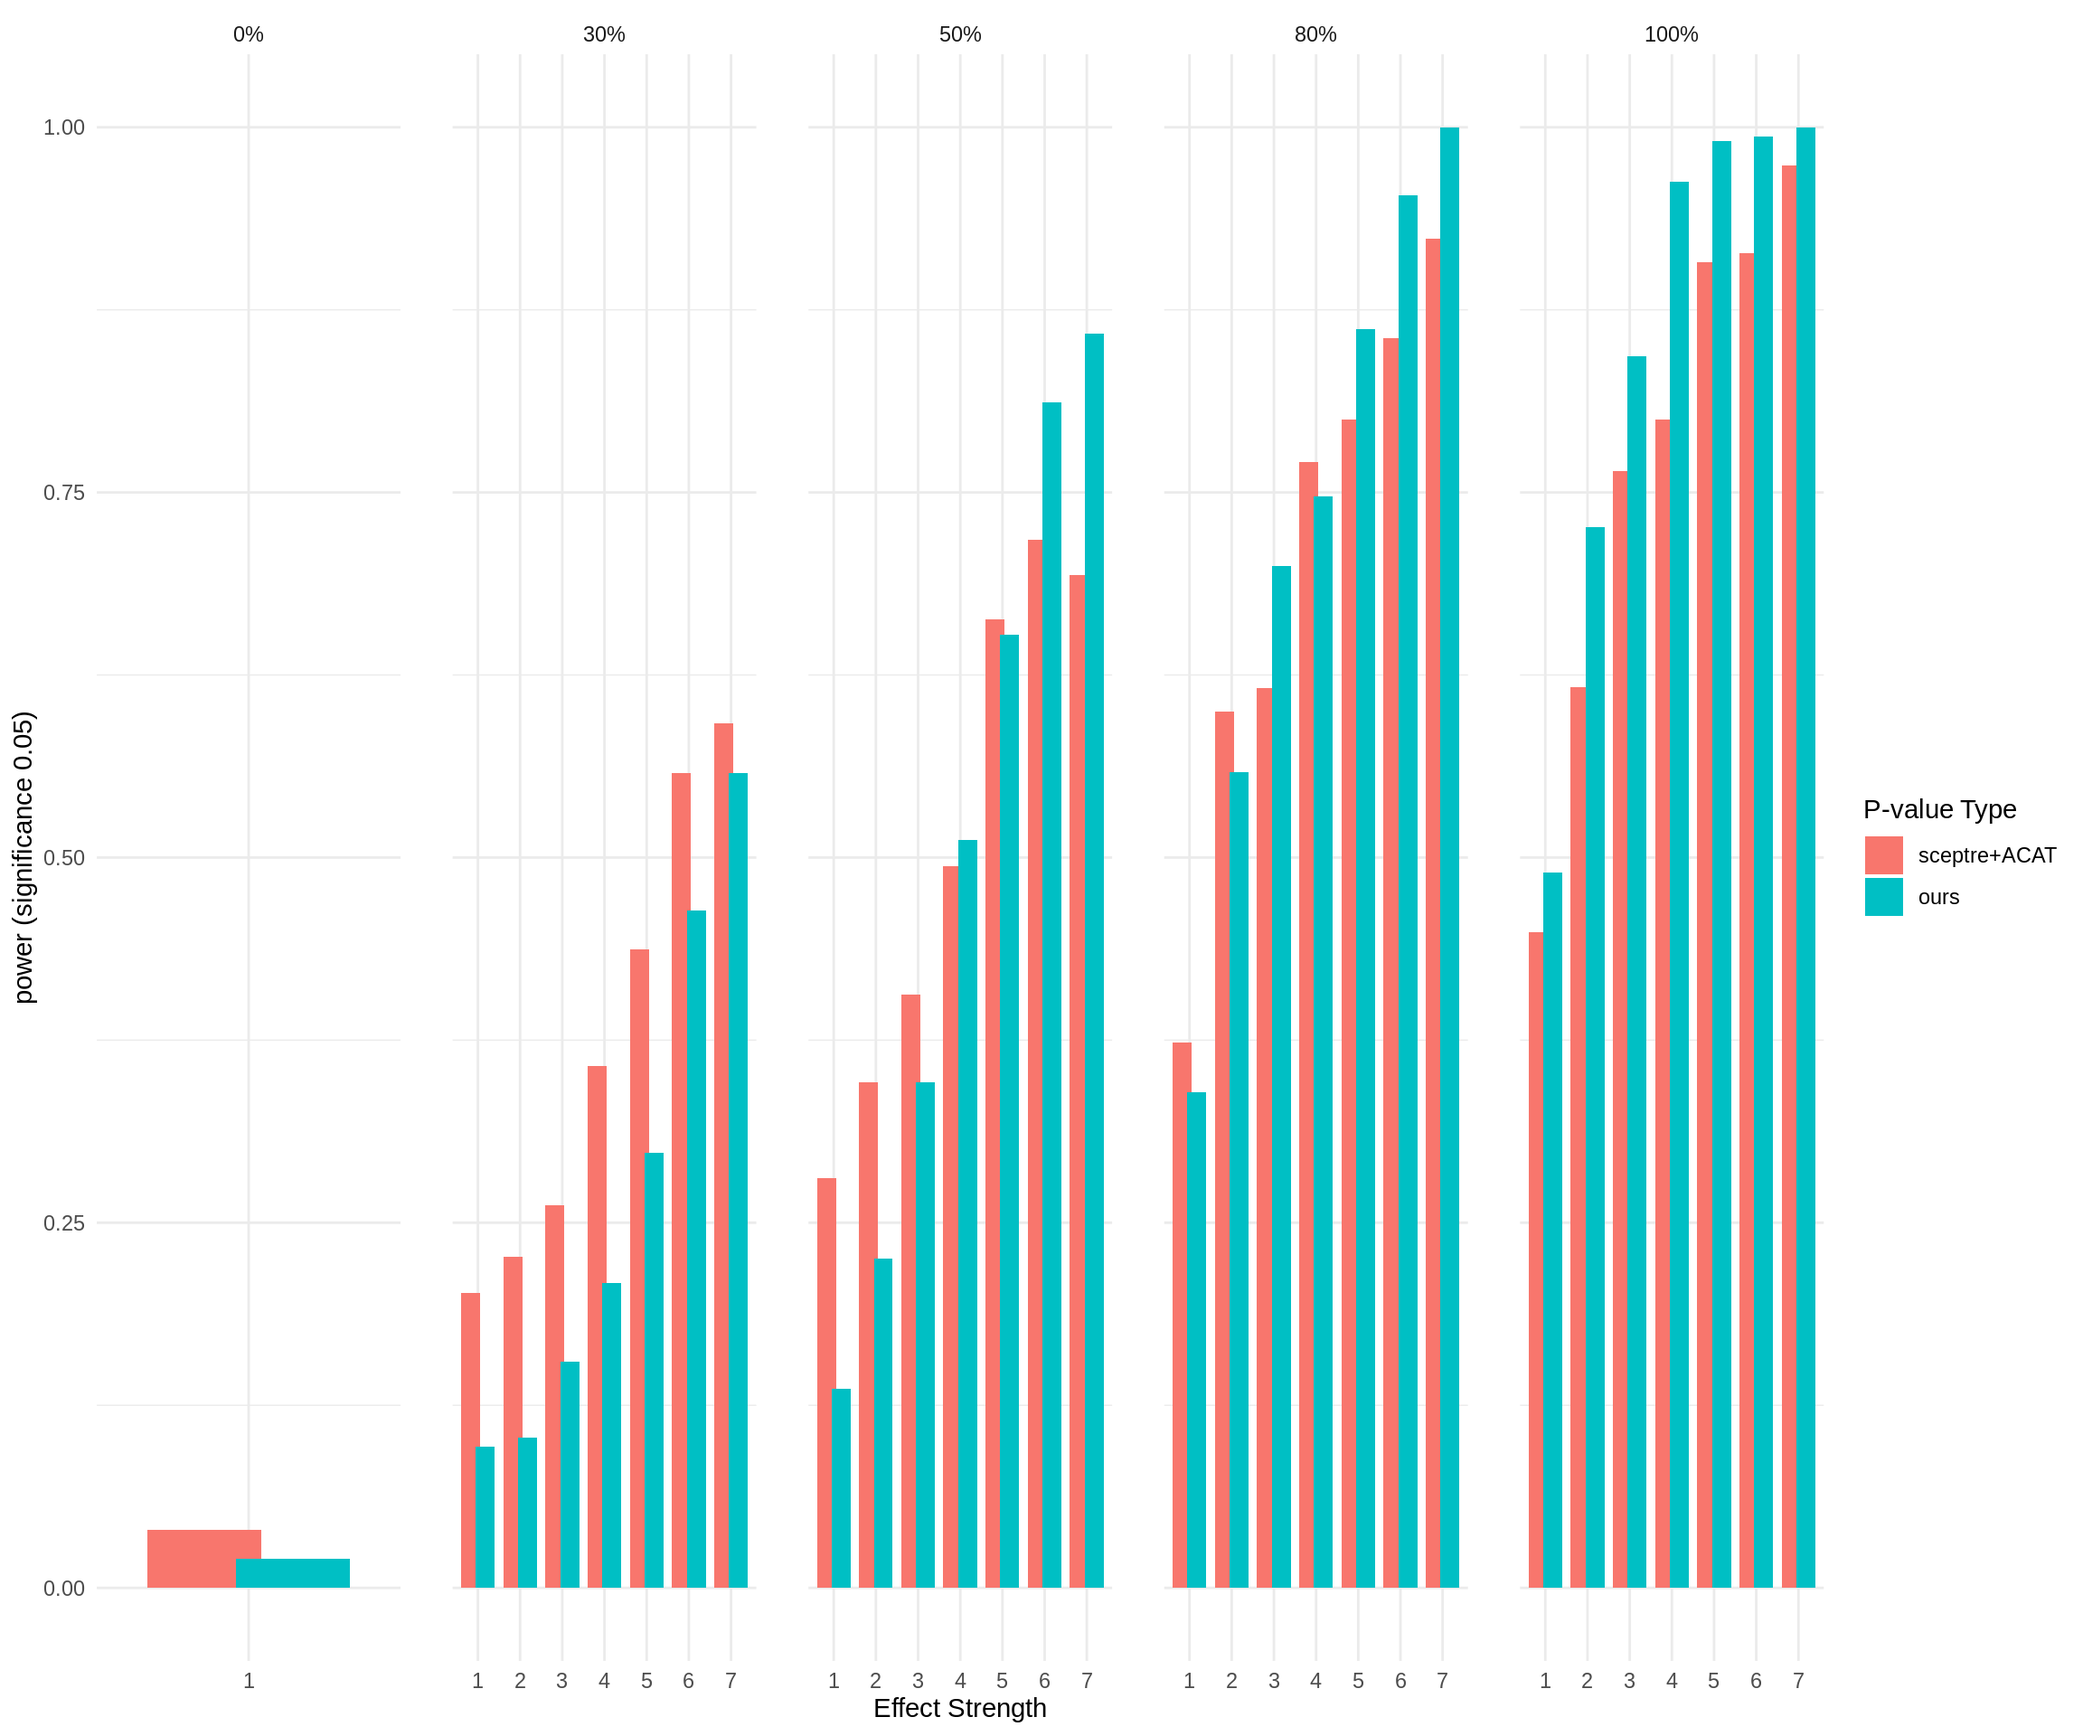
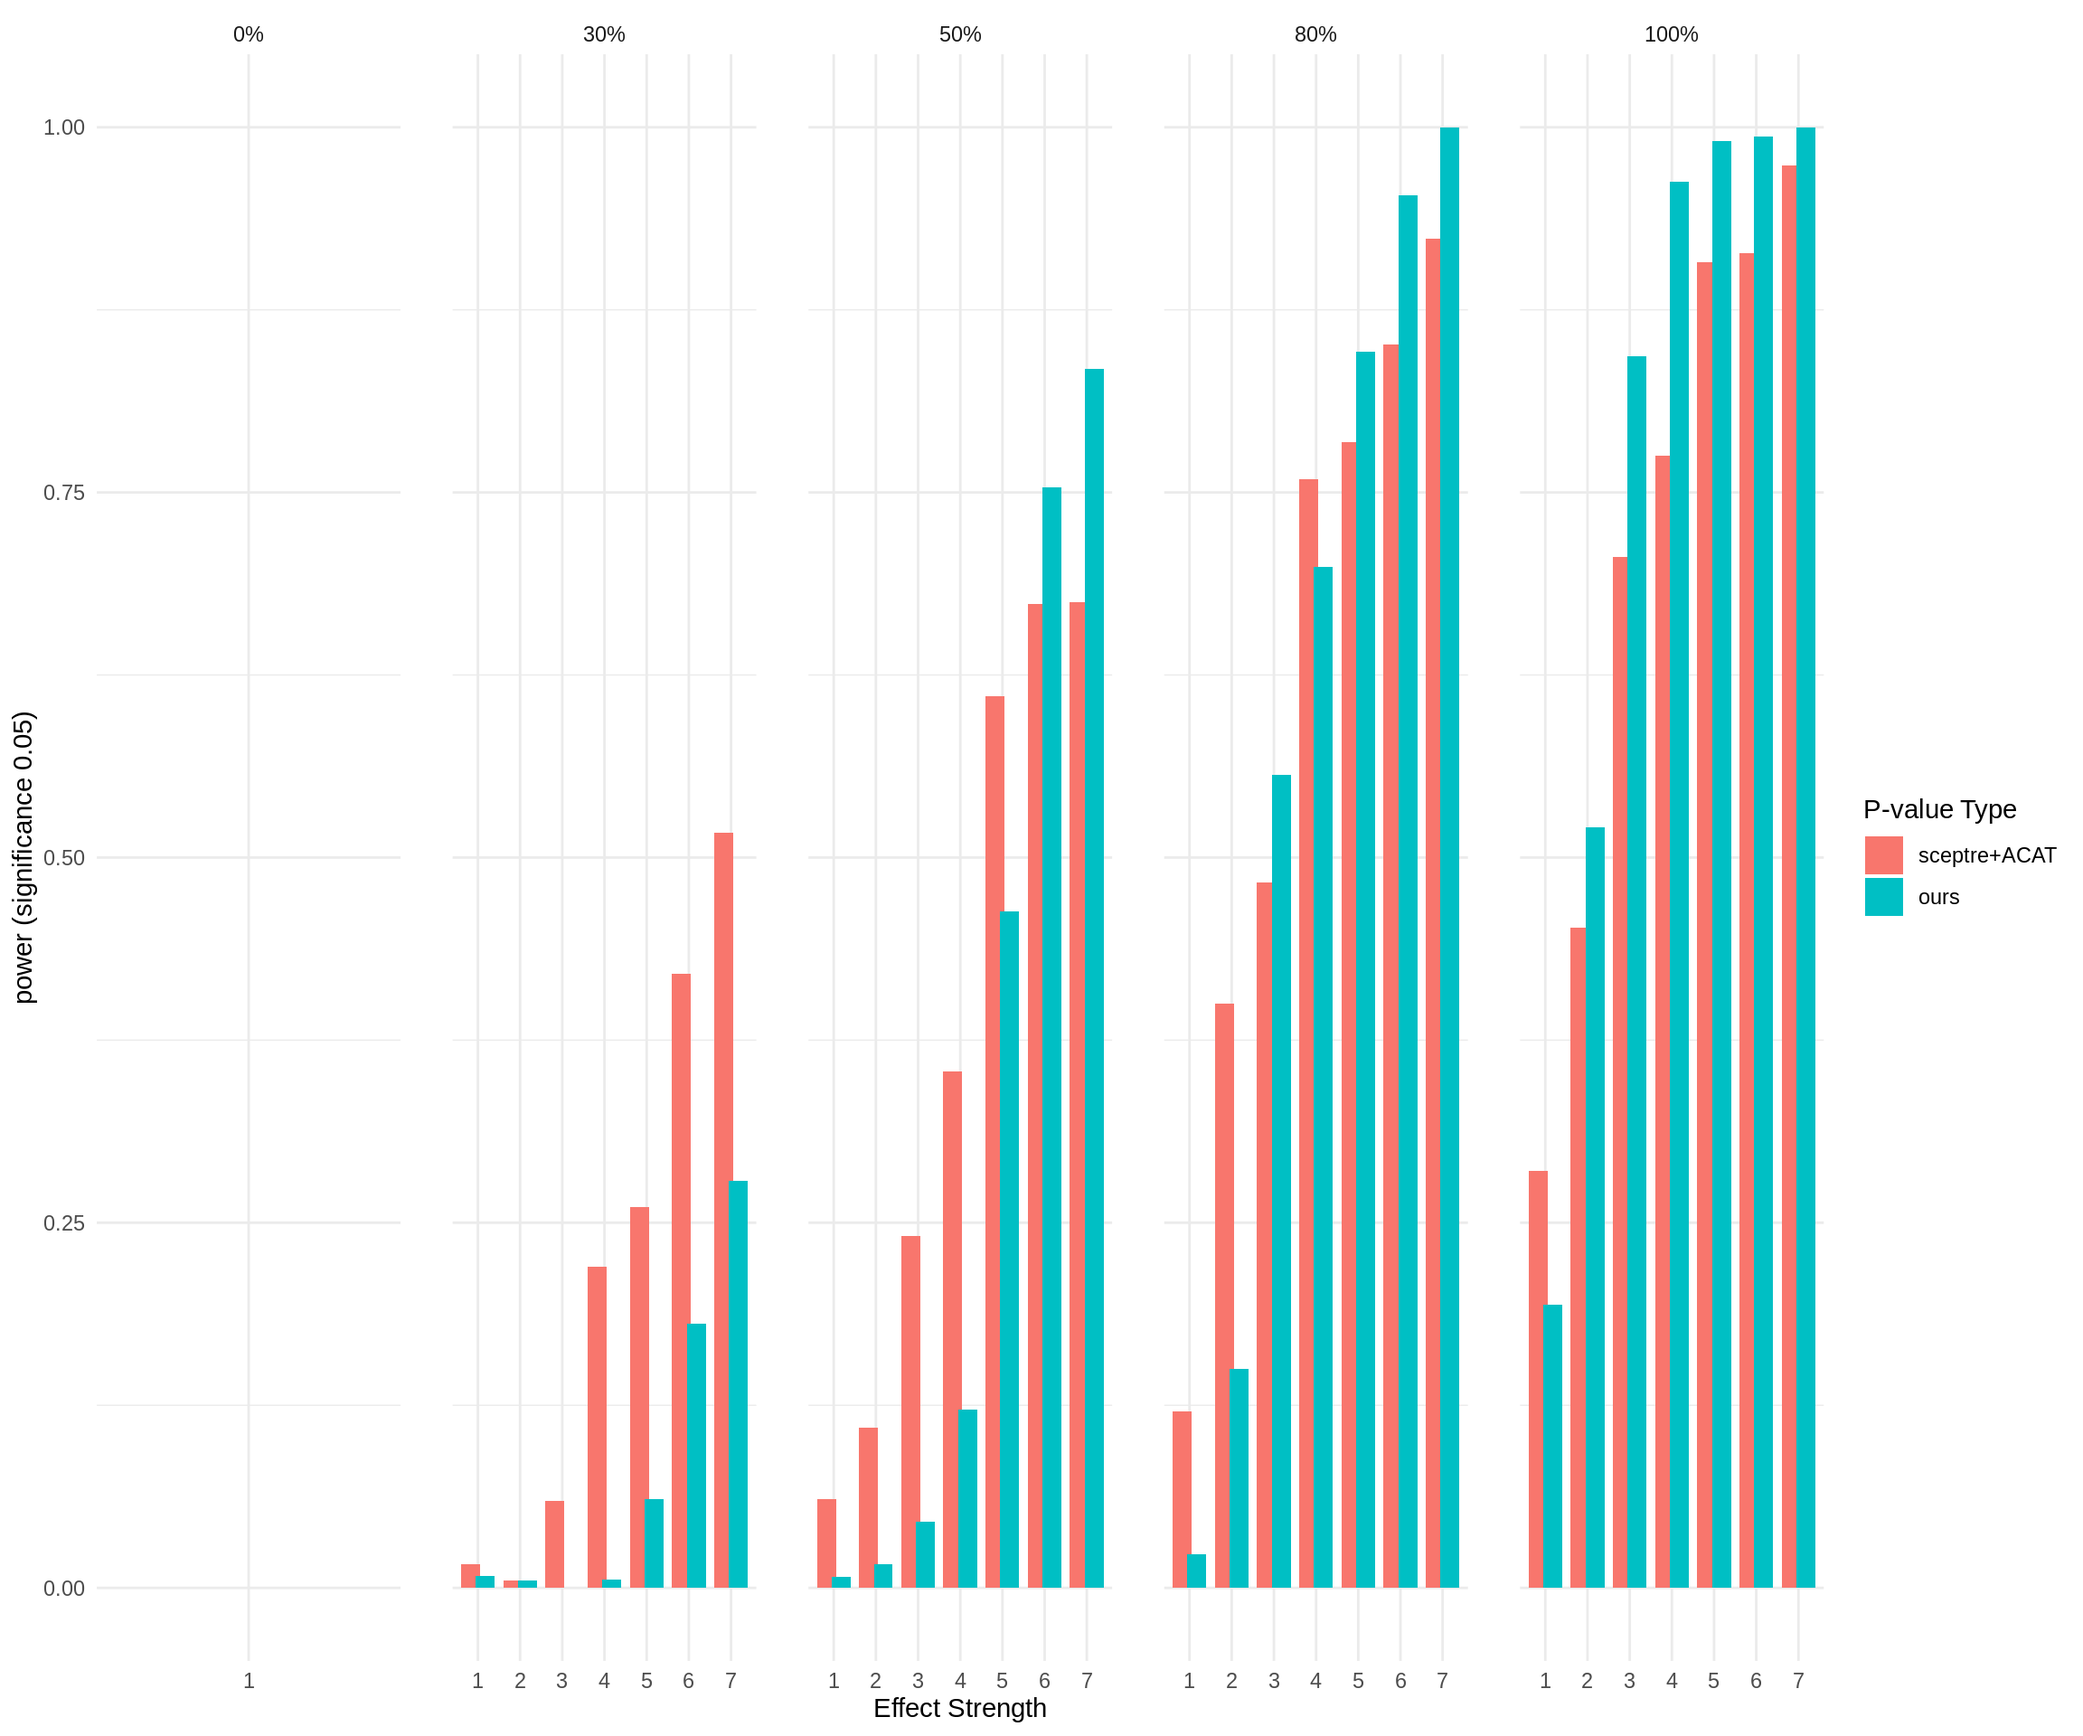
Build site.

diff --git a/docs/research_log_June.html b/docs/research_log_June.html
@@ -796,16 +796,16 @@ output/simulation/our_acat_comparison_p2
 <div class="panel panel-default">
 <div class="panel-heading">
 <p class="panel-title">
-<a data-toggle="collapse" data-parent="#workflowr-checks" href="#strongRepositoryversionstrongahrefhttpsgithubcomjliucxsceptretreeb45d0efcc94fd12eeebf4655437573519ec59163targetblankb45d0efa"> <span class="glyphicon glyphicon-ok text-success" aria-hidden="true"></span> <strong>Repository version:</strong> <a href="https://github.com/jliucx/sceptre/tree/b45d0efcc94fd12eeebf4655437573519ec59163" target="_blank">b45d0ef</a> </a>
+<a data-toggle="collapse" data-parent="#workflowr-checks" href="#strongRepositoryversionstrongahrefhttpsgithubcomjliucxsceptretree4601b1859619a1e05c79c94792bd70691b84657etargetblank4601b18a"> <span class="glyphicon glyphicon-ok text-success" aria-hidden="true"></span> <strong>Repository version:</strong> <a href="https://github.com/jliucx/sceptre/tree/4601b1859619a1e05c79c94792bd70691b84657e" target="_blank">4601b18</a> </a>
 </p>
 </div>
[2 lines of base64/hex data omitted]
 <div class="panel-body">
 <p>
 Great! You are using Git for version control. Tracking code development and connecting the code version to the results is critical for reproducibility.
 </p>
 <p>
-The results in this page were generated with repository version <a href="https://github.com/jliucx/sceptre/tree/b45d0efcc94fd12eeebf4655437573519ec59163" target="_blank">b45d0ef</a>. See the <em>Past versions</em> tab to see a history of the changes made to the R Markdown and HTML files.
+The results in this page were generated with repository version <a href="https://github.com/jliucx/sceptre/tree/4601b1859619a1e05c79c94792bd70691b84657e" target="_blank">4601b18</a>. See the <em>Past versions</em> tab to see a history of the changes made to the R Markdown and HTML files.
 </p>
 <p>
 Note that you need to be careful to ensure that all relevant files for the analysis have been committed to Git prior to generating the results (you can use <code>wflow_publish</code> or <code>wflow_git_commit</code>). workflowr only checks the R Markdown file, but you know if there are other scripts or data files that it depends on. Below is the status of the Git repository when the results were generated:
@@ -913,6 +913,40 @@ Message
 </tr>
 </thead>
 <tbody>
+<tr>
+<td>
+Rmd
+</td>
+<td>
+<a href="https://github.com/jliucx/sceptre/blob/4601b1859619a1e05c79c94792bd70691b84657e/analysis/research_log_June.Rmd" target="_blank">4601b18</a>
+</td>
+<td>
+jliucx
+</td>
+<td>
+2025-06-25
+</td>
+<td>
+add BH
+</td>
+</tr>
+<tr>
+<td>
+html
+</td>
+<td>
+<a href="https://rawcdn.githack.com/jliucx/sceptre/6a47d63a16438503f8f0402e8b438261b3ada509/docs/research_log_June.html" target="_blank">6a47d63</a>
+</td>
+<td>
+jliucx
+</td>
+<td>
+2025-06-25
+</td>
+<td>
+Build site.
+</td>
+</tr>
 <tr>
 <td>
 Rmd
